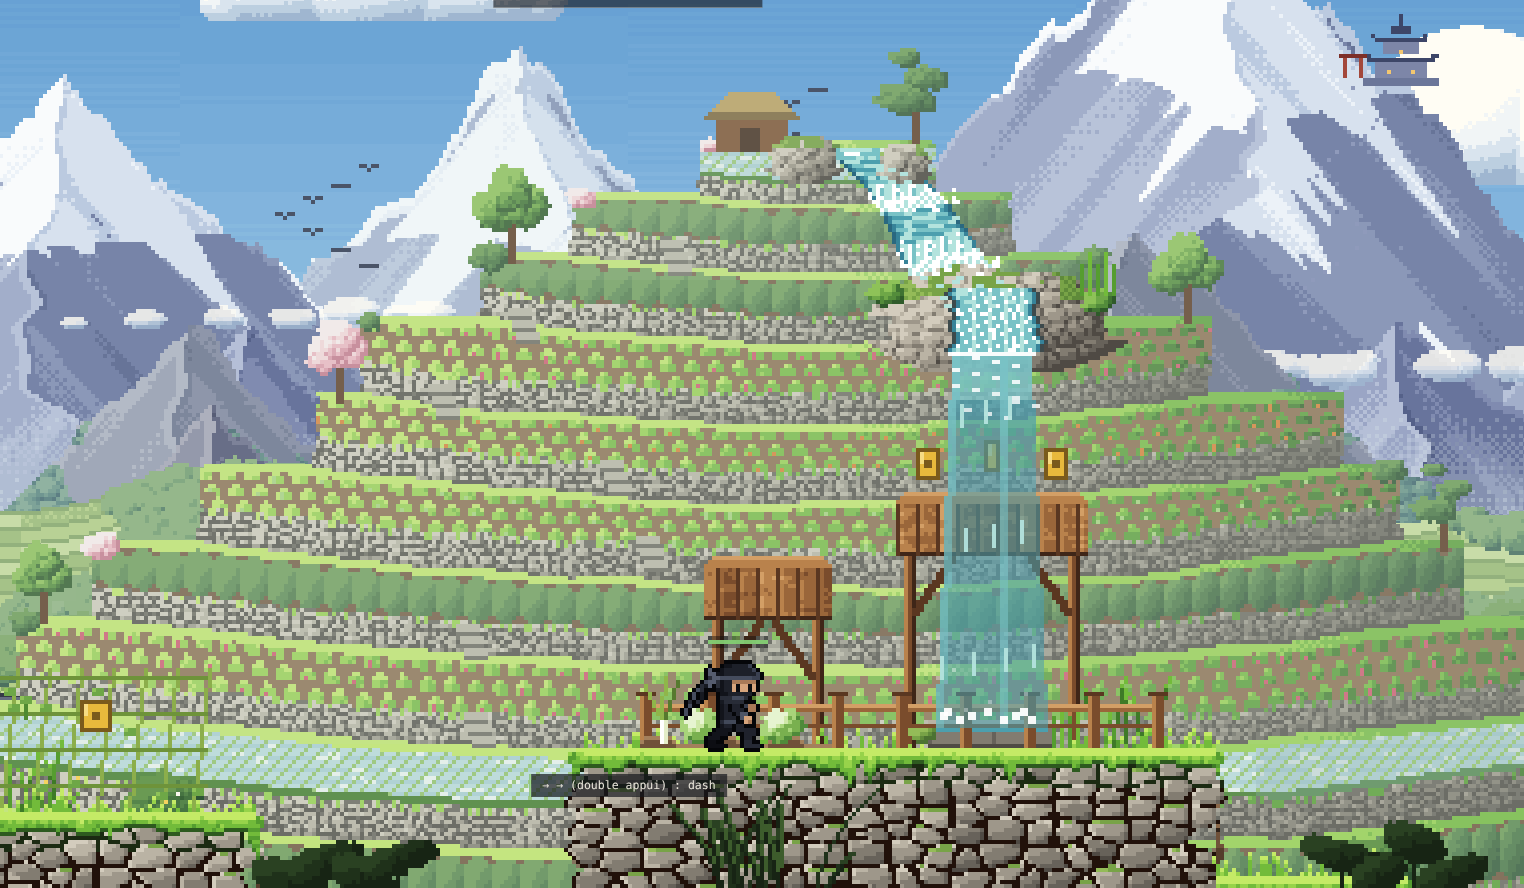
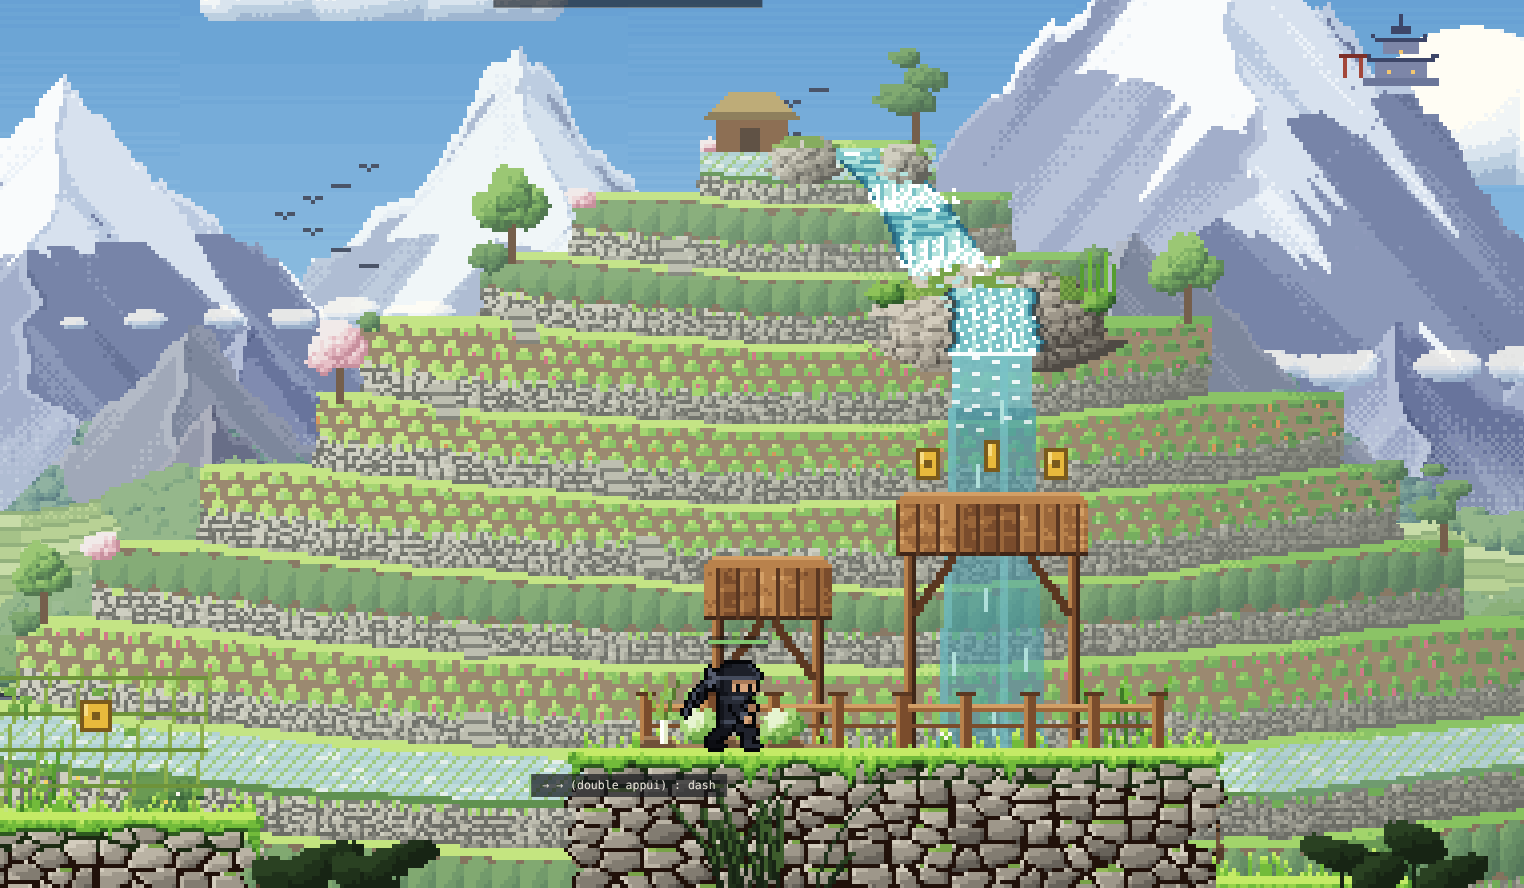
La cascade de la colline passe derrière le premier plan
Retour de l'utilisateur : la colline est au loin, sa cascade ne doit pas
passer devant la plateforme de bois. La colline est désormais peinte à
part, son eau animée par-dessus, puis le terrain du premier plan : la
cascade passe derrière les plateformes, leurs poteaux, la rambarde et la
terrasse, et finit derrière elle (le bassin de premier plan est retiré).

Claude-Session: https://claude.ai/code/session_01A2iwx5JQh5N28DfQfmMHLt

diff --git a/src/game/potager/live.js b/src/game/potager/live.js
@@ -41,6 +41,76 @@ export class Live {
   }
 
   // -------------------------------------------------------------------------
+  // la colline au loin : son ruisseau et sa cascade (derrière le terrain et
+  // les plateformes du premier plan)
+  // -------------------------------------------------------------------------
+  drawHill(ctx, cam, viewW, viewH, time) {
+    const vis = (x, m = 80) => x - cam.x > -m && x - cam.x < viewW + m;
+    // le ruisseau de la colline : l'eau ondule sur les replats, ruisselle sur les murs
+    for (const h of this.hills) {
+      if (!vis(h.mx, 400)) continue;
+      for (const row of h.rows) {
+        const sy = R(row.y - cam.y);
+        if (sy < -2 || sy > viewH) continue;
+        const q = h.band((row.x0 + row.x1) >> 1, row.y);
+        if (!q) continue;
+        const w = row.x1 - row.x0;
+        if (q.part === 'wall') {
+          ctx.fillStyle = '#ffffff';
+          for (let k = 0; k < 3; k++) {
+            const x = row.x0 + 1 + ((k * 7 + R(row.y * 3 - time * 40)) % (w - 1) + (w - 1)) % (w - 1);
+            ctx.fillRect(R(x - cam.x), sy, 1, 1);
+          }
+        } else {
+          ctx.fillStyle = q.f < 0.3 ? '#ffffff' : C.WATER[5];
+          for (let k = 0; k < 2; k++) {
+            const x = row.x0 + 1 + ((k * 11 + R(time * 9 + row.y * 5)) % (w - 1) + (w - 1)) % (w - 1);
+            ctx.fillRect(R(x - cam.x), sy, 2, 1);
+          }
+          if (q.f < 0.15) {                                          // éclaboussures au pied de la chute
+            ctx.fillStyle = '#ffffff';
+            const a = time * 5 + row.y;
+            ctx.fillRect(R(row.x0 - 2 - cam.x), sy - 1 - R(Math.abs(Math.sin(a)) * 2), 1, 1);
+            ctx.fillRect(R(row.x1 + 2 - cam.x), sy - 1 - R(Math.abs(Math.cos(a)) * 2), 1, 1);
+          }
+        }
+      }
+      // l'eau qui franchit le rocher
+      ctx.fillStyle = '#ffffff';
+      for (let k = 0; k < 5; k++) ctx.fillRect(R(h.weir.x - 10 + ((time * 16 + k * 5) % 20) - cam.x), R(h.weir.y - 14 + ((time * 30 + k * 4) % 14) - cam.y), 1, 2);
+    }
+    for (const f of this.falls) {
+      let gy = f.y; while (gy < this.map.h && this.map.at(f.x + 1, gy) !== '#') gy++;
+      // elle tombe derrière la terrasse (la colline est au loin) : le bas est caché par le terrain
+      const X = f.x * TILE + 8, top = f.top ?? (f.y - f.h) * TILE - 2, bottom = gy * TILE + 10;
+      if (!vis(X)) continue;
+      const sx = R(X - cam.x), t0 = R(top - cam.y), b0 = R(bottom - cam.y), H = b0 - t0;
+      // le rideau d'eau : plus étroit au déversoir, il s'évase en tombant
+      for (let y = 0; y < H; y++) {
+        const k = y / H, half = R(10 + k * 4);
+        // dense et écumeuse au départ (dans le prolongement du rocher), elle s'éclaircit en tombant
+        ctx.globalAlpha = 0.58 + 0.37 * Math.max(0, 1 - k * 3.5);
+        ctx.fillStyle = k < 0.12 ? C.WATER[4] : C.WATER[3]; ctx.fillRect(sx - half, t0 + y, half * 2, 1);
+        ctx.fillStyle = C.WATER[4]; ctx.fillRect(sx - half, t0 + y, 2, 1); ctx.fillRect(sx + 2, t0 + y, 2, 1);
+        if (k < 0.18) { ctx.fillStyle = '#ffffff'; ctx.fillRect(sx - half + ((y * 5) % (half * 2)), t0 + y, 2, 1); }
+      }
+      ctx.globalAlpha = 0.95;
+      ctx.fillStyle = '#ffffff'; ctx.fillRect(sx - 11, t0, 22, 1);                    // la lèvre du déversoir
+      ctx.fillStyle = C.WATER[5];
+      for (let k = 0; k < 10; k++) {                                             // filets qui descendent
+        const y = R((time * 120 + k * 31) % H);
+        ctx.fillRect(sx - 10 + k * 2 + R((y / H) * (k - 5) * 0.8), t0 + y, 1, 6);
+      }
+      ctx.globalAlpha = 0.35;
+      for (let k = 0; k < 6; k++) {                                              // bruine
+        const a = (time * 0.8 + k * 0.17) % 1;
+        ctx.fillRect(sx - 16 + k * 6 + R(Math.sin(time + k) * 3), b0 - 14 - R(a * 14), 1, 1);
+      }
+      ctx.globalAlpha = 1;
+    }
+  }
+
+  // -------------------------------------------------------------------------
   // derrière les personnages
   // -------------------------------------------------------------------------
   drawBehind(ctx, cam, viewW, viewH, time) {
@@ -118,39 +188,6 @@ export class Live {
         ctx.fillStyle = col[1]; ctx.fillRect(sx - 1 + dir, sy, 2, 1);
         ctx.fillStyle = col[0]; ctx.fillRect(sx - 4 * dir - (dir > 0 ? 1 : -1), sy - (R(time * 6 + i) % 2), 1, 2);
       }
-    }
-    // le ruisseau de la colline : l'eau ondule sur les replats, ruisselle sur les murs
-    for (const h of this.hills) {
-      if (!vis(h.mx, 400)) continue;
-      for (const row of h.rows) {
-        const sy = R(row.y - cam.y);
-        if (sy < -2 || sy > viewH) continue;
-        const q = h.band((row.x0 + row.x1) >> 1, row.y);
-        if (!q) continue;
-        const w = row.x1 - row.x0;
-        if (q.part === 'wall') {
-          ctx.fillStyle = '#ffffff';
-          for (let k = 0; k < 3; k++) {
-            const x = row.x0 + 1 + ((k * 7 + R(row.y * 3 - time * 40)) % (w - 1) + (w - 1)) % (w - 1);
-            ctx.fillRect(R(x - cam.x), sy, 1, 1);
-          }
-        } else {
-          ctx.fillStyle = q.f < 0.3 ? '#ffffff' : C.WATER[5];
-          for (let k = 0; k < 2; k++) {
-            const x = row.x0 + 1 + ((k * 11 + R(time * 9 + row.y * 5)) % (w - 1) + (w - 1)) % (w - 1);
-            ctx.fillRect(R(x - cam.x), sy, 2, 1);
-          }
-          if (q.f < 0.15) {                                          // éclaboussures au pied de la chute
-            ctx.fillStyle = '#ffffff';
-            const a = time * 5 + row.y;
-            ctx.fillRect(R(row.x0 - 2 - cam.x), sy - 1 - R(Math.abs(Math.sin(a)) * 2), 1, 1);
-            ctx.fillRect(R(row.x1 + 2 - cam.x), sy - 1 - R(Math.abs(Math.cos(a)) * 2), 1, 1);
-          }
-        }
-      }
-      // l'eau qui franchit le rocher
-      ctx.fillStyle = '#ffffff';
-      for (let k = 0; k < 5; k++) ctx.fillRect(R(h.weir.x - 10 + ((time * 16 + k * 5) % 20) - cam.x), R(h.weir.y - 14 + ((time * 30 + k * 4) % 14) - cam.y), 1, 2);
     }
     // tonneaux qui flottent dans les canaux
     for (const bl of this.barrels) {
@@ -283,39 +320,6 @@ export class Live {
     this.last = time;
     const vis = (x, m = 80) => x - cam.x > -m && x - cam.x < viewW + m;
     // la cascade d'irrigation : elle cache à moitié la cache secrète
-    for (const f of this.falls) {
-      let gy = f.y; while (gy < this.map.h && this.map.at(f.x + 1, gy) !== '#') gy++;
-      const X = f.x * TILE + 8, top = f.top ?? (f.y - f.h) * TILE - 2, bottom = gy * TILE - (f.basin ? 5 : -2);
-      if (!vis(X)) continue;
-      const sx = R(X - cam.x), t0 = R(top - cam.y), b0 = R(bottom - cam.y), H = b0 - t0;
-      // le rideau d'eau : plus étroit au déversoir, il s'évase en tombant
-      for (let y = 0; y < H; y++) {
-        const k = y / H, half = R(10 + k * 4);
-        // dense et écumeuse au départ (dans le prolongement du rocher), elle s'éclaircit en tombant
-        ctx.globalAlpha = 0.58 + 0.37 * Math.max(0, 1 - k * 3.5);
-        ctx.fillStyle = k < 0.12 ? C.WATER[4] : C.WATER[3]; ctx.fillRect(sx - half, t0 + y, half * 2, 1);
-        ctx.fillStyle = C.WATER[4]; ctx.fillRect(sx - half, t0 + y, 2, 1); ctx.fillRect(sx + 2, t0 + y, 2, 1);
-        if (k < 0.18) { ctx.fillStyle = '#ffffff'; ctx.fillRect(sx - half + ((y * 5) % (half * 2)), t0 + y, 2, 1); }
-      }
-      ctx.globalAlpha = 0.95;
-      ctx.fillStyle = '#ffffff'; ctx.fillRect(sx - 11, t0, 22, 1);                    // la lèvre du déversoir
-      ctx.fillStyle = C.WATER[5];
-      for (let k = 0; k < 10; k++) {                                             // filets qui descendent
-        const y = R((time * 120 + k * 31) % H);
-        ctx.fillRect(sx - 10 + k * 2 + R((y / H) * (k - 5) * 0.8), t0 + y, 1, 6);
-      }
-      ctx.fillStyle = '#ffffff';
-      for (let k = 0; k < 9; k++) {                                              // écume dans le bassin
-        const a = time * 4 + k;
-        ctx.fillRect(sx - 14 + k * 3 + R(Math.sin(a) * 1.5), b0 - 2 - R(Math.abs(Math.cos(a)) * 3), 2, 2);
-      }
-      ctx.globalAlpha = 0.35;
-      for (let k = 0; k < 6; k++) {                                              // bruine
-        const a = (time * 0.8 + k * 0.17) % 1;
-        ctx.fillRect(sx - 16 + k * 6 + R(Math.sin(time + k) * 3), b0 - 4 - R(a * 12), 1, 1);
-      }
-      ctx.globalAlpha = 1;
-    }
     // la serre : pluie sur la toile, gouttes qui tombent sur les feuilles, rais de lumière
     if (this.serre) {
       const x0 = this.serre.x0 * TILE, x1 = this.serre.x1 * TILE, y0 = this.serre.y0 * TILE, y1 = this.serre.y1 * TILE;

diff --git a/src/game/potager/world.js b/src/game/potager/world.js
@@ -23,6 +23,17 @@ export class World {
       ...level.backdrops.map((b) => ({ ...b, x: Math.floor((b.x0 + b.x1) / 2), y: b.y1 })),
       ...level.props,
     ].map((p) => ({ p, layers: propLayers(p), reach: PROP_REACH[p.type] ?? 160 }));
+    // la colline en terrasses est au loin : peinte à part, sous l'eau animée et
+    // sous le terrain (la cascade passe derrière les plateformes du premier plan)
+    this.hills = this.items.filter((it) => it.p.type === 'terraces_bg').map(({ p }) => {
+      const x0 = p.x * TILE - 60, w = p.w * TILE + 120;
+      const c = canvas(w, level.height);
+      const g = c.getContext('2d');
+      g.translate(-x0, 0);
+      paintProp(new Brush(g), p, { level, map: this.map, x0, x1: x0 + w }, 'backdrop');
+      return { x0, c };
+    });
+    this.items = this.items.filter((it) => it.p.type !== 'terraces_bg');
     this.next = 0;                       // prochaine tranche à peindre en tâche de fond
   }
 
@@ -75,6 +86,14 @@ export class World {
     for (const i of [z + 1, a - 1]) if (i >= 0 && i < this.n && !this.back[i]) { this.ensure(i); return; }
     while (this.next < this.n && this.back[this.next]) this.next++;
     if (this.next < this.n) this.ensure(this.next);
+  }
+
+  drawHills(ctx, cam, viewW) {
+    const cx = Math.round(cam.x), cy = Math.round(cam.y);
+    for (const h of this.hills) {
+      if (h.x0 - cx > viewW || h.x0 + h.c.width - cx < 0) continue;
+      ctx.drawImage(h.c, h.x0 - cx, -cy);
+    }
   }
 
   draw(ctx, layer, cam, viewW, viewH) {

diff --git a/src/game/potager/index.js b/src/game/potager/index.js
@@ -40,7 +40,9 @@ export class PotagerArt {
     // le paysage a son propre calque, plus fin (voir main.js) ; sinon on le peint ici
     if (!this.hiBackdrop) this.backdrop.draw(ctx, cam, viewW, viewH, time);
     this.world.idle(cam, viewW);
-    this.world.draw(ctx, 'back', cam, viewW, viewH);
+    this.world.drawHills(ctx, cam, viewW);                 // la colline au loin...
+    this.live.drawHill(ctx, cam, viewW, viewH, time);      // ... son eau ...
+    this.world.draw(ctx, 'back', cam, viewW, viewH);       // ... puis le terrain devant
     // caisses : elles disparaissent quand on les brise
     for (const cr of this.level.crates.values()) {
       const sx = Math.round(cr.tx * TILE - cam.x), sy = Math.round(cr.ty * TILE - cam.y);

diff --git a/src/game/chapters/potager.js b/src/game/chapters/potager.js
@@ -191,8 +191,7 @@ function build() {
   b.row(x + 5, 3, G - 9, '=');                        // étagère cachée derrière l'eau
   b.coins([x + 5, x + 6, x + 7], 0);
   b.set(x + 6, G - 10, 'o');
-  b.prop('waterfall', x + 6, G - 9, { top: 125, basin: true, secret: true });   // elle descend de la colline
-  b.prop('basin', x + 6, G - 5);
+  b.prop('waterfall', x + 6, G - 9, { top: 125, secret: true });   // elle descend de la colline, au loin
   b.prop('bridge', x + 1, G - 5, { w: 8 });
   b.prop('crops', x + 1, G - 5, { w: 3, kind: 'poireaux+choux' });
   x = b.x; b.flat(3, G - 3);                         // escalier de pierre ébréché

diff --git a/docs/REPRISE.md b/docs/REPRISE.md
@@ -161,7 +161,7 @@ Demande de l'utilisateur : un Potager « riche et paisible », au niveau des jeu
 - Mesure : course avec sauts dans la zone 1, 0 recadrage vertical ; dans les terrasses de la zone 2, 2. GIF : `docs/potager/camera_paliers.gif`.
 - **Fond en parallaxe** (`potager/backdrop.js`), du plus loin au plus proche : ciel tramé et grands cumulus en relief ; la **grande chaîne enneigée** (trois rangs de sommets qui se chevauchent, arêtes, ravines, neige qui descend dans les couloirs, brume au pied), dominée par le **Mont Kagero**, sur l'épaule duquel on devine le **dojo final** et son sentier en lacets (« le début d'une grande aventure ») ; vols d'oiseaux ; mer de nuages ; **montagnes moyennes** boisées avec **aiguilles à falaises**, pins accrochés et cascades ; contreforts boisés, champs, temple et torii ; **village** (maisons au toit de chaume, pagode à cinq étages, cerisiers, fumées qui montent) ; lisière (grands arbres, cerisiers, bambous) ; **rizières en terrasses** qui apparaissent à l'approche de la sortie ; **premier plan sombre** (herbes, fougères, grandes feuilles) qui défile plus vite que le jeu.
 - **Terrain** (`potager/tiles.js`) : d'après des références fournies par l'utilisateur. **Terre** : de la terre meuble (grain fin, peu contrasté, quelques gravillons) mêlée au hasard de **grosses mottes** (environ une cellule sur trois, cellules de Voronoï de 8,5 px, contour doux, arête claire en haut à gauche) ; brun un peu sec, moins chaud qu'avant mais plus chaud que la pierre, peu de nuances pour ne pas fatiguer l'œil ; flancs de terre **légèrement ondulés** (±1,5 px, jamais de coupe droite). **Murets de pierre sèche** : grosses pierres grises aux joints sombres, mousse, et silhouette qui suit les pierres (elles dépassent ou se creusent de 1 à 4 px). **Limite muret / terre** naturelle (`materialOf`) : chaque pierre tire un petit décalage au hasard, les dernières pierres s'enfoncent dans la terre, de la terre remonte entre elles, et quelques pierres à demi enterrées parsèment la terre sous le muret. Collisions inchangées (`earthPixel`, `stonePixel`, `paintOverhangs`) ; **tapis d'herbe épais** avec coulures en pointe, brins en touffes, herbe qui déborde des angles et coule sur les flancs ; brun chaud et orangé ; murets de pierre sèche moussus pour les terrasses ; pierre taillée pour les marches du jardin ; racines enchevêtrées sous la serre ; poutres de la grange ; étagère de bocaux ; grosse branche dans le verger ; bambou ligaturé ; bosquet de bambous ; berges de pierre et eau des canaux.
-- **Décors** (`potager/props.js`, placés dans `chapters/potager.js`) : ferme au toit de chaume et tas de bois, panneau d'entrée, Jizō, épouvantails en vieux kimono, légumes feuillus (carottes, radis, navets, choux, poireaux), clôture de bambou, puits, charrette, séchoir à radis, paniers, **colline en terrasses** (zone 2, `terraces_bg` et `hillGeom`) construite **gradin par gradin** : chaque gradin a sa largeur tirée au hasard (différente à gauche et à droite), d'où une silhouette en escalier irrégulier (replat, mur, replat…) ; dessus vu un peu d'en haut, en arc (rangs de légumes, rizière inondée ou théiers), mur de pierre en façade, flanc droit dans l'ombre ; touffes aux angles, arbres sur les replats, pin et abri de paille au sommet, escalier en lacets ; **le ruisseau naît au sommet** entre des rochers moussus et, presque aussi large que la cascade, descend en nappe sur chaque replat et en chute d'écume sur chaque mur (éclaboussures animées), puis franchit **un gros rocher naturel** (fissuré, moussu) d'où tombe la grande cascade, dense au départ, qui s'évase et finit dans un bassin de pierre sur la terrasse (devant la cache secrète), moulin à eau, roseaux et iris, lanternes de pierre, arbres fruitiers tortueux et voûte de branches du verger, échelle, serre (toiles déchirées, arceaux, lianes, étagères de graines, plantes suspendues, outils, treillis), grange (grand toit de chaume, mur de planches, contrefiches, outils suspendus, toiles d'araignée, meules, sacs), sanctuaire et torii, renards de pierre, pin taillé, azalées, bosquets, pas japonais, banc, pont rouge rompu, grande porte, échoppe du marchand (ombrelle rouge, auvent indigo, enseigne, marchandises), poteau indicateur. Plus des décors automatiques : buissons, fougères, roseaux et pousses de bambou derrière le chemin, poteaux sous les plateformes de bois, fleurs sauvages.
+- **Décors** (`potager/props.js`, placés dans `chapters/potager.js`) : ferme au toit de chaume et tas de bois, panneau d'entrée, Jizō, épouvantails en vieux kimono, légumes feuillus (carottes, radis, navets, choux, poireaux), clôture de bambou, puits, charrette, séchoir à radis, paniers, **colline en terrasses** (zone 2, `terraces_bg` et `hillGeom`) construite **gradin par gradin** : chaque gradin a sa largeur tirée au hasard (différente à gauche et à droite), d'où une silhouette en escalier irrégulier (replat, mur, replat…) ; dessus vu un peu d'en haut, en arc (rangs de légumes, rizière inondée ou théiers), mur de pierre en façade, flanc droit dans l'ombre ; touffes aux angles, arbres sur les replats, pin et abri de paille au sommet, escalier en lacets ; **le ruisseau naît au sommet** entre des rochers moussus et, presque aussi large que la cascade, descend en nappe sur chaque replat et en chute d'écume sur chaque mur (éclaboussures animées), puis franchit **un gros rocher naturel** (fissuré, moussu) d'où tombe la grande cascade, dense au départ. La colline est **au loin** : elle est peinte à part (`World.drawHills`), son eau est dessinée par-dessus (`Live.drawHill`), puis le terrain du premier plan : la cascade passe derrière les plateformes de bois, leurs poteaux, la rambarde et la terrasse (demande de l'utilisateur, pour la profondeur). Les ryō de la cache restent visibles devant elle, qui s'évase moulin à eau, roseaux et iris, lanternes de pierre, arbres fruitiers tortueux et voûte de branches du verger, échelle, serre (toiles déchirées, arceaux, lianes, étagères de graines, plantes suspendues, outils, treillis), grange (grand toit de chaume, mur de planches, contrefiches, outils suspendus, toiles d'araignée, meules, sacs), sanctuaire et torii, renards de pierre, pin taillé, azalées, bosquets, pas japonais, banc, pont rouge rompu, grande porte, échoppe du marchand (ombrelle rouge, auvent indigo, enseigne, marchandises), poteau indicateur. Plus des décors automatiques : buissons, fougères, roseaux et pousses de bambou derrière le chemin, poteaux sous les plateformes de bois, fleurs sauvages.
 - **Ce qui bouge** (`potager/live.js`) : roue à eau (derrière la berge, elle plonge dans le canal), eau du bief, cascade et écume, reflets et nénuphars, poissons qui sautent, tonneaux qui flottent, **kappa pêcheur** qui plonge quand KAGE approche, koïs, fumées, pluie sur la serre et gouttes qui tombent par les déchirures, rais de lumière, pénombre de la grange avec halos de lanternes et poussières, lanternes et clochette de l'échoppe, papillons, pétales, feuilles, libellules, poussières dorées. Les lanternes de sauvegarde sont des lanternes de papier sur poteau.
 - **Performances** : tout est peint une fois (~0,8 s au chargement), le terrain par tranches de 512 px peintes à la demande ; 60 images/s.
 - Planche des 8 zones : `docs/potager/potager_zones.png` ; course : `docs/potager/potager_course.gif`.
